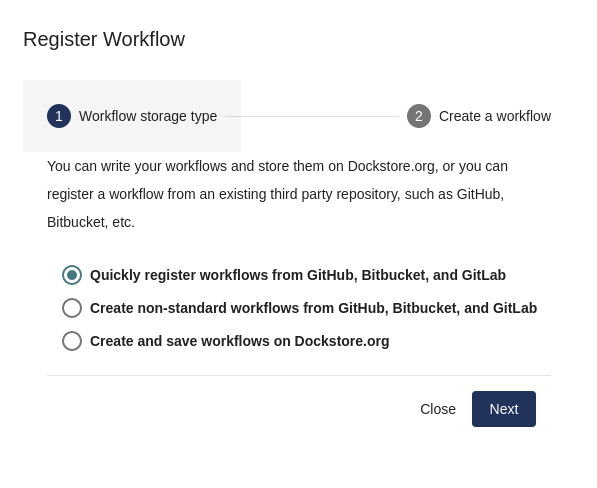
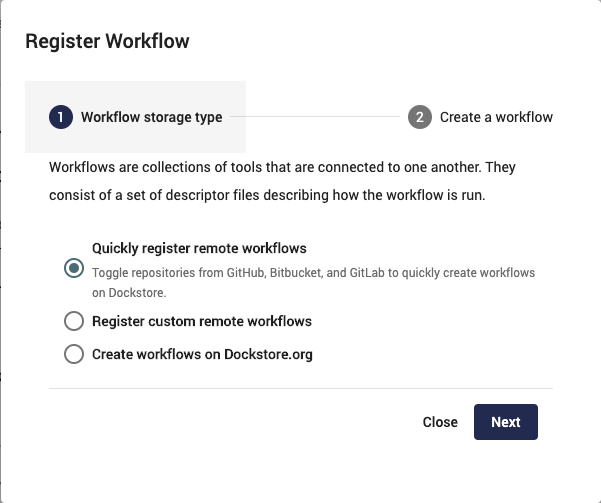
more cleanup of workflow registration page

diff --git a/docs/getting-started/dockstore-workflows.rst b/docs/getting-started/dockstore-workflows.rst
@@ -72,7 +72,7 @@ Register Your Workflow in Dockstore
 There are a variety of ways to get your workflows into Dockstore. Users can either
 use GitHub App registration or traditional registration. GitHub App registration is the
 recommended way to register for all new workflows on Dockstore using GitHub. The traditional registration
-is the legacy registration process which is less automated.
+is the legacy registration process which is less automated, and used for BitBucket and Gitlab.
 
 .. note:: To register content on Dockstore, you must have an account on Dockstore and
    link the necessary third-party accounts. Once this is done you can register
@@ -92,7 +92,7 @@ added to a branch of the repository that contains your workflow. This file conta
 workflow path, test parameter file, workflow name, etc. When a push is made on GitHub to a branch
 with a ``.dockstore.yml``, Dockstore will add that branch onto Dockstore to the correct workflow. If the
 workflow doesn't already exist on Dockstore, one will be created. Below is an example of a .dockstore.yml file
-for bamstats.
+for an alignment workflow.
 
 
 .. code:: yaml
@@ -103,13 +103,13 @@ for bamstats.
         primaryDescriptorPath: /Dockstore.cwl
         testParameterFiles:
         - /test/dockstore.cwl.json
-        name: bamstats
+        name: aligner
 
-If you had our GitHub App installed on a repository ``myorg/dockstore-tool-bamstats`` and then add the above ``.dockstore.yml`` to the ``develop`` branch,
+If you had our GitHub App installed on a repository ``myorg/alignments`` and then add the above ``.dockstore.yml`` to the ``develop`` branch,
 the following would occur.
 
-* A workflow with path ``github.com/myorg/dockstore-tool-bamstats/bamstats`` will be created
-* The version ``develop`` is added to ``github.com/myorg/dockstore-tool-bamstats/bamstats``
+* A workflow with path ``github.com/myorg/alignments/aligner`` will be created
+* The version ``develop`` is added to ``github.com/myorg/alignments/aligner``
 
 .. tip:: Since the workflows field is an array, this file supports multiple workflows on Dockstore stemming from
    the same repository on GitHub. This is useful if you store a lot of your workflows in the same GitHub
@@ -139,9 +139,7 @@ To do that you must do manual registration, which is described later.
 Quick Register
 ++++++++++++++
 Quick register provides a flow that lets you browse the repositories you
-have access to and quickly create standard stub workflows. The benefit of
-this approach is that you get some automation without having lots of
-stubs created.
+have access to and quickly create standard stub workflows.
 
 You can access quick register by clicking the plus button on the My
 Workflows page. The flow of this process is shown in the screenshots
@@ -161,29 +159,12 @@ Once you've selected a Git registry and organization, you can see a list of all
 available repositories that you can add to Dockstore. There are three states
 the sliders can be in.
 
-- Off - There is no matching workflow on Dockstore.
+- Off - There is no matching workflow on Dockstore. One can be created.
 - On - This repository already exists on Dockstore and can be deleted.
 - Disabled - This repository exists on Dockstore and cannot be deleted.
 
 If sliders are in the off state then you can turn them on to quickly register
 a stub workflow for the repository.
-
-Refresh Organization
-++++++++++++++++++++
-Refresh Organization will look at an existing Git organization on Dockstore and do the following:
-
-- Create stub workflows for all Git repositories which do not exist on
-  Dockstore
-- Refresh all workflows that have been converted from stub to full workflows
-- Add user to any workflows that exist on Dockstore that they should have
-  access to
-
-To refresh an organization, select the refresh org icon button on the left side of the
-My Workflows page.
-
-
-One drawback of refresh organization is that it creates a stub for every single
-repository that you have access to, whether or not it contains a workflow.
 
 Manual Registration of Workflows
 ^^^^^^^^^^^^^^^^^^^^^^^^^^^^^^^^^
